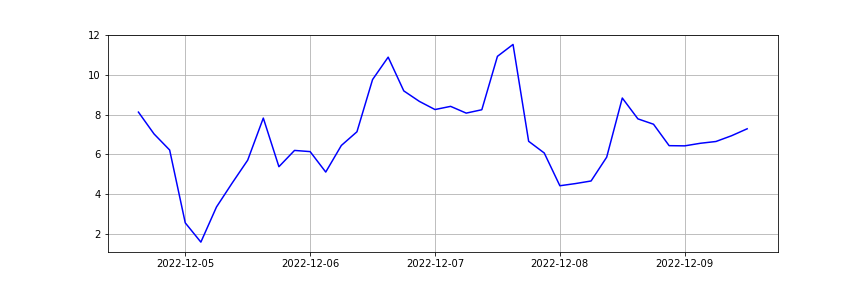
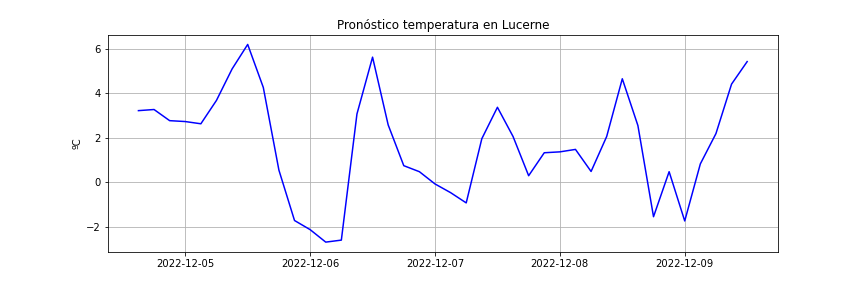
movido al chat del bot 100% funcional

diff --git a/Responses.py b/Responses.py
@@ -18,8 +18,8 @@ def city_weather(city):
     api_key = '3886d5996f84c5b9a5c953b027fc2306'
       
     # city= urllib.parse.quote(input("Introduce la ciudad: "))
-    city=urllib.parse.quote(city)
-    url2= url.replace("{city name}", city).replace("{API key}", api_key)
+    city_uncoded=urllib.parse.quote(city)
+    url2= url.replace("{city name}", city_uncoded).replace("{API key}", api_key)
     # print(url2)
       
     data= requests.get(url2)
@@ -34,13 +34,17 @@ def city_weather(city):
       
     ts2 = [datetime.strptime(d, '%Y-%m-%d %H:%M:%S') for d in fechas]
     fig= plt.figure(figsize=(12, 4))
-    plt.grid()
+    plt.grid()   
+    plt.ylabel("ºC")
+    titulo_grafico= "Pronóstico temperatura en " + str(city)
+    plt.title(titulo_grafico)
       
     plt.plot(ts2, temperatura, color="blue");
     plt.savefig("temperatura.png")
       
     files = {'photo': open('temperatura.png', 'rb')}  
-    url= 'https://api.telegram.org/bot5894955616:AAG_4S2XLv9Wx4BhGTC3uykjXWnzwigggj4/sendPhoto?chat_id=-1001822743230'
+    # url= 'https://api.telegram.org/bot5894955616:AAG_4S2XLv9Wx4BhGTC3uykjXWnzwigggj4/sendPhoto?chat_id=-1001822743230'
+    url= 'https://api.telegram.org/bot5894955616:AAG_4S2XLv9Wx4BhGTC3uykjXWnzwigggj4/sendPhoto?chat_id=132274401'
     url_caption = url + '&caption=' + 'El tiempo en ' + str(city)
     resp= requests.get(url_caption, files = files)
       
@@ -56,17 +60,18 @@ def sample_responses (input_text):
     cities=available_cities.check_city()
     
     if user_message in cities:
+        # user_message= urllib.parse.quote(user_message) #aquí traduzco el nombre de la ciudad a código que entiende la máquina
         city_weather(city=user_message)
         # mensaje= "Aquí tienes el tiempo en " + str(user_message)
-        # return mensaje
 
     elif user_message not in cities:
         return "City not found, please try another one"
     
-    if user_message in ("time", "time?"):
+    elif user_message in ("time", "time?"):
         new = datetime.now()
         date_time= now.strftime("%d/%m/%y, %H:%M:%S")
         return str(date_time)
     
     # print("llegué")
-    return "I don't understand you"
+    else:
+        return "I don't understand you"
